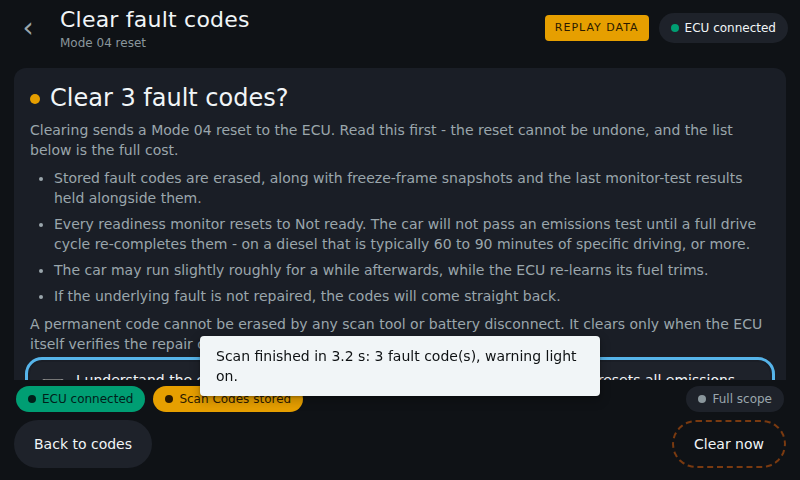
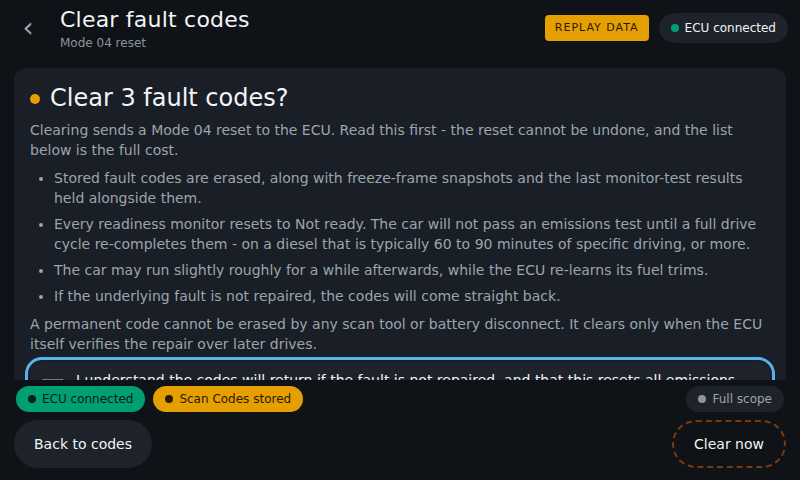
fe review fixes: toast lifecycle, named codes, live-route smoke, docs

Changed region(s): [[0.25, 0.6875, 0.75, 0.8438]]

diff --git a/frontend/diag.js b/frontend/diag.js
@@ -300,6 +300,11 @@
     S.screen = id;
     S.focus = 0;
     document.body.setAttribute('data-screen', id);
+    // A toast belongs to the screen that raised it: never let a stale
+    // snackbar (e.g. "Scan finished") linger over the next screen's
+    // content - on S11 it physically covers the fix-first checkbox.
+    var toastBox = $('toast');
+    if (toastBox) { toastBox.hidden = true; }
     var sections = document.querySelectorAll('.screen');
     for (var i = 0; i < sections.length; i++) {
       sections[i].classList.toggle('active', sections[i].id === id);
@@ -1614,6 +1619,13 @@
       ' pending \u00b7 ' + counts.permanent + ' permanent \u00b7 ' +
       'from the last scan' + (S.scanAt ? ' (' + S.scanAt.toLocaleTimeString() + ')' : ''));
     add(wrap, meta);
+    // Never clear blind: name the exact codes the reset will erase.
+    var names = codeList('stored').concat(codeList('pending'), codeList('permanent'))
+      .map(function (entry) { return (entry && entry.code) || '?'; })
+      .filter(function (code, index, all) { return all.indexOf(code) === index; });
+    if (names.length) {
+      add(wrap, el('p', 'stamp', 'This reset erases: ' + names.join(' \u00b7 ')));
+    }
   }
 
   function renderClearWorking(wrap) {

diff --git a/smoke/clear_smoke.py b/smoke/clear_smoke.py
@@ -1,15 +1,16 @@
 #!/usr/bin/env python3
 """Playwright smoke for the S11 Mode-04 clear flow (800x480, keyboard only).
 
-Serves the real page from a replay backend; mocks /scan (fast, with codes)
-and POST /clear (success + 400/409/502 + slow timeout). Asserts the full
-two-step walk, knob/shim reachability, both outcome states, the offline gate,
-and zero app console errors. Screenshots land next to this script.
+Serves the real page from a replay backend; mocks /scan (fast, with codes).
+The happy path drives the REAL POST /clear; 400/409/502 + the slow timeout
+stay mocked. Asserts the full two-step walk, knob/shim reachability, both
+outcome states, the offline gate, and zero app console errors. Screenshots
+land next to this script.
 
 Run from the repo root:  python3 smoke/clear_smoke.py
 Needs: replay backend on 127.0.0.1:44419
   python3 -m backend.server --mode replay \\
-      --replay-fixtures fixtures/round1_full_capture.json --port 44419
+      --replay-fixtures smoke/replay_clear.json --port 44419
 """
 import json
 import os
@@ -22,15 +23,6 @@ with open(os.path.join(HERE, "scan_codes.json"), encoding="utf-8") as fh:
     SCAN_CODES = fh.read()
 with open(os.path.join(HERE, "scan_reread.json"), encoding="utf-8") as fh:
     SCAN_REREAD = fh.read()
-
-CLEAR_OK = {
-    "ok": True, "status": "done", "mode04_positive": True,
-    "duration_s": 1.2, "codes_seen_before": 3,
-    "followup": {"readiness": "incomplete",
-                 "message": "monitors reset; drive cycle needed"},
-    "permanent_codes_note": "One permanent code remains: only the ECU "
-                            "can clear it, after the repair proves out.",
-}
 
 CHECKS = []
 
@@ -139,11 +131,15 @@ def main():
                           body=body)
 
         def on_clear(route):
-            # Never sleep here: a blocking handler stalls this client's
-            # event loop and distorts every later wait. 'hold' parks the
-            # request unanswered so the working state stays put until the
-            # test fulfils it explicitly - fully deterministic.
+            # 'live' lets the request reach the real backend (replay
+            # fixture); 'hold' parks it unanswered so the working state
+            # stays put (timeout path). Never sleep in a handler: a
+            # blocking handler stalls this client's event loop and
+            # distorts every later wait.
             mode = state["clear_mode"]
+            if mode == "live":
+                route.continue_()
+                return
             if mode == "hold":
                 state["pending_clear"].append(route)
                 return
@@ -172,16 +168,6 @@ def main():
             except Exception:
                 pass  # client aborted (timeout path) - nothing to fulfil
 
-        def fulfil_clear_ok():
-            for route in state["pending_clear"]:
-                try:
-                    route.fulfill(status=200,
-                                  content_type="application/json",
-                                  body=json.dumps(CLEAR_OK))
-                except Exception:
-                    pass
-            state["pending_clear"] = []
-
         ctx.route("**/scan*", on_scan)
         ctx.route("**/clear*", on_clear)
         ctx.route("**/health*", on_health)
@@ -199,9 +185,10 @@ def main():
             return page
 
         # ---- scenario 1: full success walk, keyboard only ----
-        # 'hold' parks the /clear request so the working/spinner state
-        # stays put until fulfil_clear_ok() releases it - deterministic.
-        state.update(scan_calls=0, clear_mode="hold", pending_clear=[])
+        # LIVE /clear against the replay backend (smoke/replay_clear.json:
+        # Mode 03 pre-read holds P0401, Mode 04 answers 44). Error paths
+        # below stay mocked.
+        state.update(scan_calls=0, clear_mode="live", pending_clear=[])
         page = new_page()
         check("lands on S0", screen(page) == "S0", screen(page))
         if not reach_scan_results(page):
@@ -223,9 +210,15 @@ def main():
                       needle in body_text)
             check("screen1 permanent honesty line",
                   "cannot be erased by any scan tool" in body_text)
+            check("screen1 names the codes",
+                  "This reset erases: P0301" in txt(page,"#clearWrap")
+                  and "P0401" in txt(page,"#clearWrap")
+                  and "P0420" in txt(page,"#clearWrap"),
+                  txt(page,"#clearWrap")[-200:])
             check("no battery-disconnect advice",
-                  "disconnect the battery" not in body_text.lower()
-                  and "disconnecting the battery" not in body_text.lower())
+                  not any(adv in body_text.lower() for adv in
+                          ("try disconnect", "disconnect the battery to",
+                           "or disconnect the", "instead, disconnect")))
             clear_btn = page.query_selector(
                 "#actions button.btn-danger")
             check("clear-now gated while unchecked",
@@ -285,20 +278,26 @@ def main():
                     check("keyboard finds Clear now", False)
                 else:
                     page.keyboard.press("Enter")
-                    page.wait_for_selector(
-                        "#clearWrap .scan-mark.is-busy", timeout=3000)
-                    check("working shows spinner", True)
-                    fulfil_clear_ok()  # release the parked request
+                    # The live backend answers in ~0.5 s: read the spinner
+                    # immediately (one round-trip) instead of racing a wait.
+                    check("working shows spinner", page.evaluate(
+                        "!!document.querySelector('#clearWrap"
+                        " .scan-mark.is-busy')"))
                     page.wait_for_selector(
                         "#clearWrap .scan-mark.is-done", timeout=12000)
                     check("success morphs to check", True)
                     follow = txt(page,"#clearWrap")
+                    check("live pre-read counted",
+                          "1 code(s) held before the reset" in follow,
+                          follow[:200])
+                    check("live duration shown",
+                          "confirmed in" in follow)
                     check("followup message shown",
                           "monitors reset; drive cycle needed" in follow)
                     check("afterClear copy wired",
                           "must prove itself healthy again" in follow)
                     check("server permanent note shown",
-                          "only the ECU can clear it" in follow)
+                          "cannot be cleared by any tool" in follow)
                     page.wait_for_function(
                         "document.querySelector('#clearWrap')"
                         ".textContent.includes('Readiness re-read')",

diff --git a/smoke/make_mocks.py b/smoke/make_mocks.py
@@ -90,6 +90,25 @@ def main():
         json.dump(cleared, handle)
     print("wrote %s and %s" % (OUT, OUT2))
 
+    # replay_clear.json: a ReplayHost command map for the LIVE /clear happy
+    # path - the round-1 capture with a Mode 03 that holds one stored code
+    # (P0401, the same bytes backend/tests/test_diag_clear.py uses) plus a
+    # positive Mode 04 answer. Serve with:
+    #   python3 -m backend.server --mode replay \
+    #       --replay-fixtures smoke/replay_clear.json --port 44419
+    round1_path = os.path.join(
+        os.path.dirname(os.path.dirname(os.path.abspath(__file__))),
+        "fixtures", "round1_full_capture.json")
+    with open(round1_path, encoding="utf-8") as handle:
+        cap = json.load(handle)
+    cap["03"] = {"raw": ["43 01 04 01"]}
+    cap["04"] = {"raw": ["44"]}
+    out3 = os.path.join(os.path.dirname(os.path.abspath(__file__)),
+                        "replay_clear.json")
+    with open(out3, "w", encoding="utf-8") as handle:
+        json.dump(cap, handle)
+    print("wrote %s" % out3)
+
 
 if __name__ == "__main__":
     main()

diff --git a/CHANGELOG.md b/CHANGELOG.md
@@ -2,6 +2,39 @@
 
 All notable changes. Format: date — phase — what.
 
+## 2026-09-24 — Two-screen DTC-clear confirm flow (frontend, branch `fe-clear-dtc`)
+
+### Added
+- `frontend/diag.html` + `frontend/diag.js`: S11 `Clear fault codes` screen (survey
+  section 5 two-screen pattern). Screen 1: consequence list (codes + freeze frame +
+  test results erased, readiness all Not ready with the 60-to-90-minute diesel drive
+  cycle, re-learn roughness, codes return if unfixed), permanent-code honesty line,
+  the exact codes named (`This reset erases: …`), and the fix-first checkbox gating
+  a danger-styled `Clear now`. Screen 2: spinner→check result, server
+  `followup.message` + `afterClear`/`driveCycle` copy, and an automatic readiness
+  re-read merged into the cached report. Entry button on S3, enabled only while the
+  lane is online; `POST /clear?confirm=yes` (query form, like the other lane args),
+  30 s timeout, single-flight; 409 contention is toast-only, everything else shakes
+  the confirm card with the server message.
+- `frontend/diag.css`: `.btn-danger` (+ hollow gated state that still passes 4.5:1),
+  `.clear-list`, `.check-row`; S11 reuses the motion-section classes via
+  `markClearDone`/`syncClearMotion` twins — no new keyframes.
+- `tools/contrast_audit.py`: 3 rows for the new surfaces (exit 0, both schemes).
+- `smoke/`: Playwright smoke (800x480, keyboard only) with replay fixtures —
+  happy path drives the REAL `/clear`, error paths mocked.
+- `go()` now dismisses a lingering toast on screen change (a stale `Scan finished`
+  snackbar covered the S11 consent row).
+
+### Verified
+- `python3 smoke/clear_smoke.py`: 46/46 (screen 1 content + gating, shim reachability
+  incl. label-row toggle, live pre-read count/duration/followup/server permanent note,
+  auto re-read line, wall opens post-clear, mocked 400/409/502 + slow timeout +
+  offline gate, zero app console errors). Screen 1 / success / failure screenshots
+  in `smoke/`.
+- `python3 tools/contrast_audit.py` exits 0 (dark + light + fallback, all pass).
+- `python3 -m unittest discover -s backend/tests -t .`: 169 run green (backend untouched
+  by this card; count grew via the merged `be-clear-dtc` route).
+
 ## 2026-09-24 — Mode 04 clear route (backend, branch `be-clear-dtc`)
 
 ### Added

diff --git a/docs/UI_MOTION_REFERENCES.md b/docs/UI_MOTION_REFERENCES.md
@@ -31,8 +31,8 @@ Motion-pass status (24 Sep 2026, branch `motion-pass`): adopted 4/5.
 |---|---|---|
 | status-line shimmer + swap | adopted | `.scan-label.is-scanning` (translateX gradient pseudo) + `.swap-in` opacity cross-fade via `swapText()`; S1 label, deep variant "Reading every PID" |
 | skeleton loader + reveal | adopted | `.skel` ×4 (opacity pulse) in `#reportPre` while loading + one-shot `.reveal-in` on fresh verdict/deep/report content via `revealOnce()` |
-| error shake | adopted (surface adapted) | `.shake-once` translateX keyframe on the failure panel (`#s0Hero` / `#verdict`) via `shakeOnce()`; snackbar kept. No Mode 04 clear flow exists in backend or frontend, so there is no clear-failure row — scan failure is the nearest real error panel |
-| spinner→check morph | adopted (surface adapted) | `.scan-mark` pie spinner (rotate) while busy → check pop (scale/rotate/opacity) via `markScanDone()`; same Mode 04 note — mapped to the S1 scan-status mark |
+| error shake | clear flow live | `.shake-once` translateX keyframe on the failure panel (`#s0Hero` / `#verdict`, plus the S11 `#clearCard`) via `shakeOnce()`; snackbar kept. Clear failure/timeout shakes the confirm card with the server message; 409 contention is toast-only |
+| spinner→check morph | clear flow live | `.scan-mark` pie spinner (rotate) while busy → check pop (scale/rotate/opacity) via `markScanDone()` on S1 and its twin `markClearDone()` on the S11 result card — same classes, no new keyframes |
 | number roll (digit reel) | skipped | live values render as whole text nodes; a reel needs per-digit DOM + timers — over budget for a Pi webview this pass |
 
 Only 2–3 of these per future polish card; verify each with `body.reduced-motion`

diff --git a/README.md b/README.md
@@ -50,7 +50,10 @@ section 5); permanent Mode 0A codes are never clearable by any tool. A confirmed
 clear answers the seam contract (`mode04_positive`, `codes_seen_before`, `followup`,
 `permanent_codes_note`), a silent/refusing ECU gets a structured
 `unsupported`/`refused` answer, and a timeout is a 502 saying the codes were NOT
-confirmed cleared.
+confirmed cleared. Overlay side shipped and gated: the Fault codes screen (S3)
+carries a `Clear fault codes` entry (enabled only while the lane is online)
+opening the S11 two-screen confirm (consequence list + fix-first checkbox,
+then result + readiness follow-up with automatic wall re-read).
 
 ## The vehicle (this capture only — the APP must discover these at runtime)
 - VIN `WVWZZZ1KZAW555555` (synthetic placeholder — the capture was anonymised), ECM "ECM-EngineControl", diesel monitor map.
